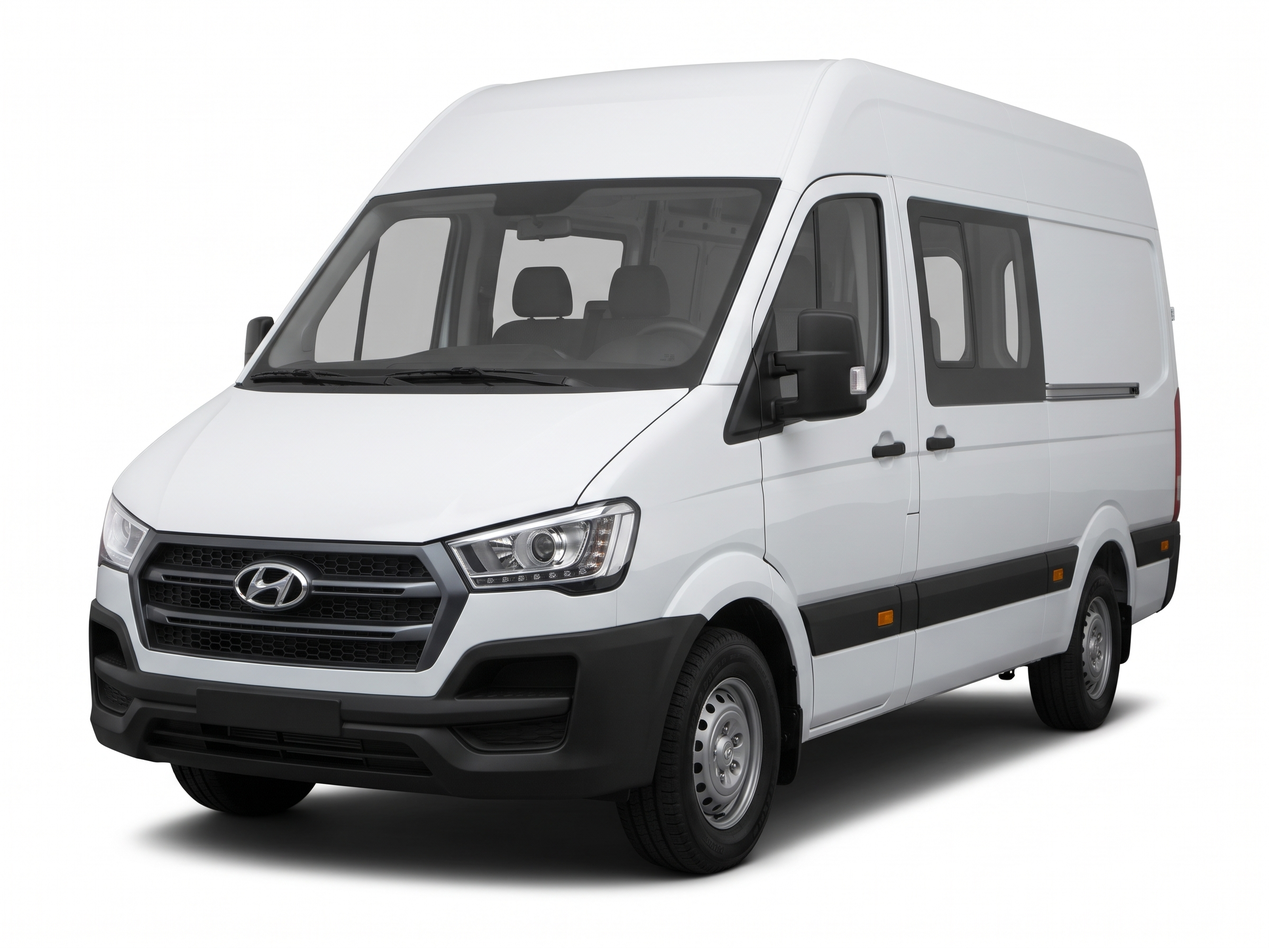
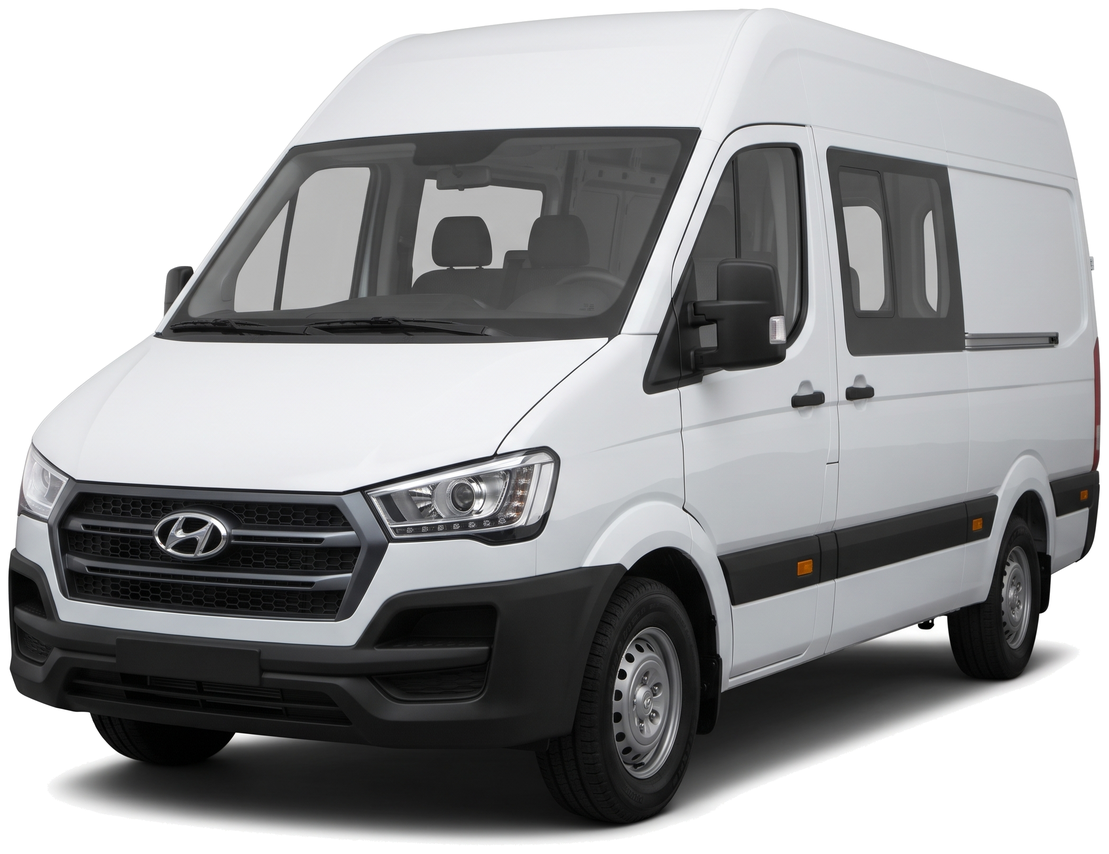
feat(fleet-ui): update vehicle assets from JPG to truly transparent PNG and seamless card styling

diff --git a/index.html b/index.html
@@ -6386,10 +6386,10 @@ const LOCAL_DELIVERY_DATA = [
                 } flex items-center justify-center text-lg sm:text-xl shadow-xs shrink-0">
                   <i class="fa-solid ${isMaintenance ? 'fa-wrench' : 'fa-truck-moving'}"></i>
                 </div>
-                <div>
+                <div class="shrink-0 min-w-0">
                   <h3 class="text-base sm:text-lg font-extrabold text-slate-900 tracking-tight leading-tight">${vehicleDetails.brand}</h3>
                   <div class="mt-1.5">
-                    <span class="inline-block bg-yellow-400 text-black border border-black rounded px-2 py-0.5 font-bold tracking-widest text-xs font-mono shadow-xs">
+                    <span class="inline-block bg-yellow-400 text-black border border-black rounded px-2 py-0.5 font-bold tracking-widest text-xs font-mono shadow-xs whitespace-nowrap">
                       ${vehicleDetails.plate}
                     </span>
                   </div>
@@ -6398,8 +6398,8 @@ const LOCAL_DELIVERY_DATA = [
 
               <!-- Truck Image -->
               ${vehicleImg ? `
-                <div class="flex items-center justify-center shrink-0 px-1">
-                  <img src="${vehicleImg}" alt="${vehicleDetails.brand}" class="h-16 sm:h-24 w-auto max-w-[120px] sm:max-w-[160px] object-contain drop-shadow-md mix-blend-multiply transition-transform duration-300 hover:scale-105" onerror="if(!this.src.endsWith('.jpg')){this.src=this.src.replace('.png','.jpg');}else{this.style.display='none';}" loading="lazy" />
+                <div class="bg-transparent border-0 shadow-none flex items-center justify-center shrink-0 px-1">
+                  <img src="${vehicleImg}" alt="${vehicleDetails.brand}" class="h-20 md:h-24 w-auto object-contain drop-shadow-md mix-blend-multiply transition-transform duration-300 hover:scale-105" onerror="this.style.display='none';" loading="lazy" />
                 </div>
               ` : ''}
 
